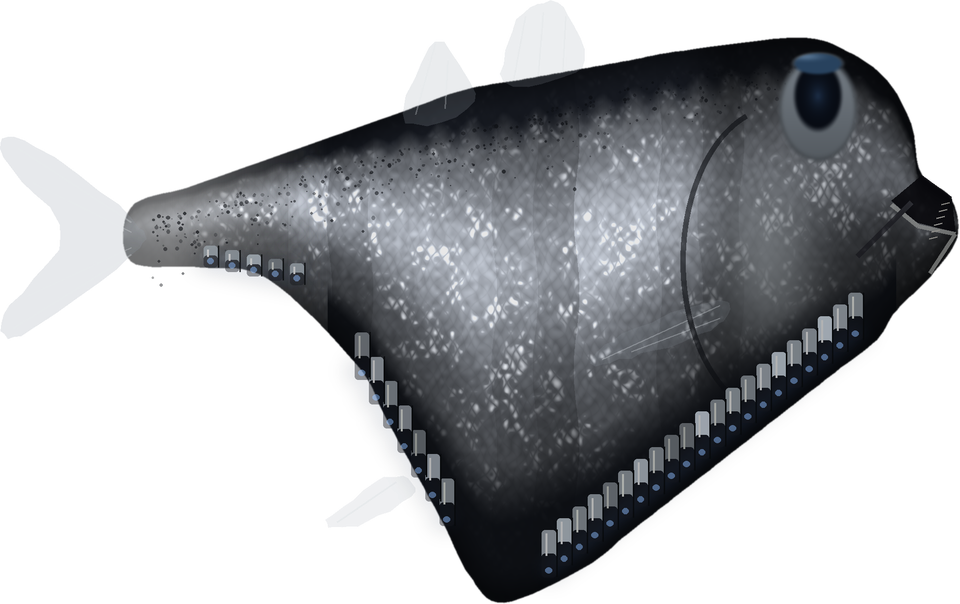
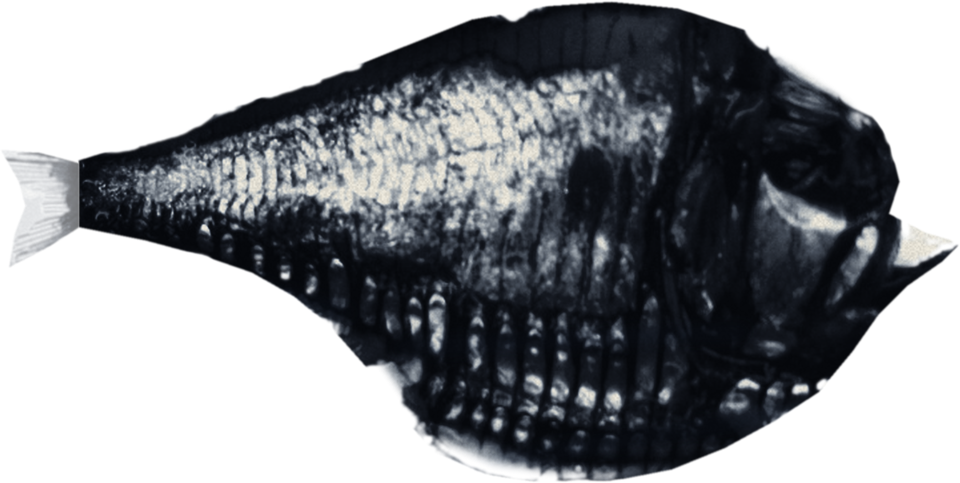
7.3.1: the hatchetfish traced from a photograph of Argyropelecus gigas (NOAA's Fisheries Collection, public domain; kept in tools/ref): its outline traced point by point, its light and dark taken from the photograph and recoloured in the game's palette (near-black shadows to bone, never pure white),
Claude-Session: https://claude.ai/code/session_01KViiRYY5HFnTy3p7jvNZMS

diff --git a/index.html b/index.html
@@ -81,8 +81,8 @@
   <link rel="preconnect" href="https://fonts.googleapis.com">
   <link rel="preconnect" href="https://fonts.gstatic.com" crossorigin>
   <link href="https://fonts.googleapis.com/css2?family=Barlow+Semi+Condensed:wght@400;500;600;700&display=block" rel="stylesheet">
-  <link rel="stylesheet" href="css/style.css?v=7.3.0">
-  <link rel="stylesheet" href="css/olive.css?v=7.3.0">
+  <link rel="stylesheet" href="css/style.css?v=7.3.1">
+  <link rel="stylesheet" href="css/olive.css?v=7.3.1">
   <style>
     /* (4.17.2) the loading screen, poster-style: the painting left alone (only a slow push-in), and over it, at the
        lower left, flat type in the sunset's own orange and a warm off-white: a stamped helmet mark, the title, a
@@ -437,91 +437,91 @@
   <!-- stamp:start (tools/stamp.py) -->
   <script type="importmap">
   { "imports": {
-    "./js/abilities.js": "./js/abilities.js?v=7.3.0",
-    "./js/alarm.js": "./js/alarm.js?v=7.3.0",
-    "./js/aquarium.js": "./js/aquarium.js?v=7.3.0",
-    "./js/aquarium_draw.js": "./js/aquarium_draw.js?v=7.3.0",
-    "./js/arm.js": "./js/arm.js?v=7.3.0",
-    "./js/audio.js": "./js/audio.js?v=7.3.0",
-    "./js/autopilot.js": "./js/autopilot.js?v=7.3.0",
-    "./js/buoy_draw.js": "./js/buoy_draw.js?v=7.3.0",
-    "./js/cabin.js": "./js/cabin.js?v=7.3.0",
-    "./js/capture.js": "./js/capture.js?v=7.3.0",
-    "./js/catalog.js": "./js/catalog.js?v=7.3.0",
-    "./js/chart.js": "./js/chart.js?v=7.3.0",
-    "./js/chest_art.js": "./js/chest_art.js?v=7.3.0",
-    "./js/chests.js": "./js/chests.js?v=7.3.0",
-    "./js/clouds.js": "./js/clouds.js?v=7.3.0",
-    "./js/coin_art.js": "./js/coin_art.js?v=7.3.0",
-    "./js/coins.js": "./js/coins.js?v=7.3.0",
-    "./js/contracts.js": "./js/contracts.js?v=7.3.0",
-    "./js/creatures_draw.js": "./js/creatures_draw.js?v=7.3.0",
-    "./js/dave.js": "./js/dave.js?v=7.3.0",
-    "./js/dave_art.js": "./js/dave_art.js?v=7.3.0",
-    "./js/designs.js": "./js/designs.js?v=7.3.0",
-    "./js/earl_draw.js": "./js/earl_draw.js?v=7.3.0",
-    "./js/economy.js": "./js/economy.js?v=7.3.0",
-    "./js/entity.js": "./js/entity.js?v=7.3.0",
-    "./js/face_draw.js": "./js/face_draw.js?v=7.3.0",
-    "./js/fatfinger.js": "./js/fatfinger.js?v=7.3.0",
-    "./js/fauna.js": "./js/fauna.js?v=7.3.0",
-    "./js/fittings.js": "./js/fittings.js?v=7.3.0",
-    "./js/gallery.js": "./js/gallery.js?v=7.3.0",
-    "./js/gauge_art.js": "./js/gauge_art.js?v=7.3.0",
-    "./js/gear_art.js": "./js/gear_art.js?v=7.3.0",
-    "./js/glyphs.js": "./js/glyphs.js?v=7.3.0",
-    "./js/hud.js": "./js/hud.js?v=7.3.0",
-    "./js/hunters.js": "./js/hunters.js?v=7.3.0",
-    "./js/input.js": "./js/input.js?v=7.3.0",
-    "./js/item_art.js": "./js/item_art.js?v=7.3.0",
-    "./js/item_data.js": "./js/item_data.js?v=7.3.0",
-    "./js/item_words.js": "./js/item_words.js?v=7.3.0",
-    "./js/itemcard.js": "./js/itemcard.js?v=7.3.0",
-    "./js/items.js": "./js/items.js?v=7.3.0",
-    "./js/journal_tank.js": "./js/journal_tank.js?v=7.3.0",
-    "./js/kit_art.js": "./js/kit_art.js?v=7.3.0",
-    "./js/legendfx.js": "./js/legendfx.js?v=7.3.0",
-    "./js/main.js": "./js/main.js?v=7.3.0",
-    "./js/messages.js": "./js/messages.js?v=7.3.0",
-    "./js/monster_draw.js": "./js/monster_draw.js?v=7.3.0",
-    "./js/oldone.js": "./js/oldone.js?v=7.3.0",
-    "./js/pets.js": "./js/pets.js?v=7.3.0",
-    "./js/player.js": "./js/player.js?v=7.3.0",
-    "./js/purchases.js": "./js/purchases.js?v=7.3.0",
-    "./js/quests.js": "./js/quests.js?v=7.3.0",
-    "./js/render.js": "./js/render.js?v=7.3.0",
-    "./js/reveal.js": "./js/reveal.js?v=7.3.0",
-    "./js/scenery_draw.js": "./js/scenery_draw.js?v=7.3.0",
-    "./js/scrolls.js": "./js/scrolls.js?v=7.3.0",
-    "./js/settings.js": "./js/settings.js?v=7.3.0",
-    "./js/showcase.js": "./js/showcase.js?v=7.3.0",
-    "./js/sleeper_draw.js": "./js/sleeper_draw.js?v=7.3.0",
-    "./js/species.js": "./js/species.js?v=7.3.0",
-    "./js/species_looks.js": "./js/species_looks.js?v=7.3.0",
-    "./js/specimens.js": "./js/specimens.js?v=7.3.0",
-    "./js/station_draw.js": "./js/station_draw.js?v=7.3.0",
-    "./js/store.js": "./js/store.js?v=7.3.0",
-    "./js/suit_art.js": "./js/suit_art.js?v=7.3.0",
-    "./js/survey.js": "./js/survey.js?v=7.3.0",
-    "./js/tankroom.js": "./js/tankroom.js?v=7.3.0",
-    "./js/textures.js": "./js/textures.js?v=7.3.0",
-    "./js/title_art.js": "./js/title_art.js?v=7.3.0",
-    "./js/tokens.js": "./js/tokens.js?v=7.3.0",
-    "./js/tools_draw.js": "./js/tools_draw.js?v=7.3.0",
-    "./js/touch.js": "./js/touch.js?v=7.3.0",
-    "./js/trail.js": "./js/trail.js?v=7.3.0",
-    "./js/traps.js": "./js/traps.js?v=7.3.0",
-    "./js/tutspot.js": "./js/tutspot.js?v=7.3.0",
-    "./js/ui.js": "./js/ui.js?v=7.3.0",
-    "./js/undocumented_draw.js": "./js/undocumented_draw.js?v=7.3.0",
-    "./js/units.js": "./js/units.js?v=7.3.0",
-    "./js/util.js": "./js/util.js?v=7.3.0",
-    "./js/variants.js": "./js/variants.js?v=7.3.0",
-    "./js/version.js": "./js/version.js?v=7.3.0",
-    "./js/world.js": "./js/world.js?v=7.3.0",
-    "./data/species_about.js": "./data/species_about.js?v=7.3.0",
-    "./data/species_data.js": "./data/species_data.js?v=7.3.0",
-    "./data/species_more.js": "./data/species_more.js?v=7.3.0"
+    "./js/abilities.js": "./js/abilities.js?v=7.3.1",
+    "./js/alarm.js": "./js/alarm.js?v=7.3.1",
+    "./js/aquarium.js": "./js/aquarium.js?v=7.3.1",
+    "./js/aquarium_draw.js": "./js/aquarium_draw.js?v=7.3.1",
+    "./js/arm.js": "./js/arm.js?v=7.3.1",
+    "./js/audio.js": "./js/audio.js?v=7.3.1",
+    "./js/autopilot.js": "./js/autopilot.js?v=7.3.1",
+    "./js/buoy_draw.js": "./js/buoy_draw.js?v=7.3.1",
+    "./js/cabin.js": "./js/cabin.js?v=7.3.1",
+    "./js/capture.js": "./js/capture.js?v=7.3.1",
+    "./js/catalog.js": "./js/catalog.js?v=7.3.1",
+    "./js/chart.js": "./js/chart.js?v=7.3.1",
+    "./js/chest_art.js": "./js/chest_art.js?v=7.3.1",
+    "./js/chests.js": "./js/chests.js?v=7.3.1",
+    "./js/clouds.js": "./js/clouds.js?v=7.3.1",
+    "./js/coin_art.js": "./js/coin_art.js?v=7.3.1",
+    "./js/coins.js": "./js/coins.js?v=7.3.1",
+    "./js/contracts.js": "./js/contracts.js?v=7.3.1",
+    "./js/creatures_draw.js": "./js/creatures_draw.js?v=7.3.1",
+    "./js/dave.js": "./js/dave.js?v=7.3.1",
+    "./js/dave_art.js": "./js/dave_art.js?v=7.3.1",
+    "./js/designs.js": "./js/designs.js?v=7.3.1",
+    "./js/earl_draw.js": "./js/earl_draw.js?v=7.3.1",
+    "./js/economy.js": "./js/economy.js?v=7.3.1",
+    "./js/entity.js": "./js/entity.js?v=7.3.1",
+    "./js/face_draw.js": "./js/face_draw.js?v=7.3.1",
+    "./js/fatfinger.js": "./js/fatfinger.js?v=7.3.1",
+    "./js/fauna.js": "./js/fauna.js?v=7.3.1",
+    "./js/fittings.js": "./js/fittings.js?v=7.3.1",
+    "./js/gallery.js": "./js/gallery.js?v=7.3.1",
+    "./js/gauge_art.js": "./js/gauge_art.js?v=7.3.1",
+    "./js/gear_art.js": "./js/gear_art.js?v=7.3.1",
+    "./js/glyphs.js": "./js/glyphs.js?v=7.3.1",
+    "./js/hud.js": "./js/hud.js?v=7.3.1",
+    "./js/hunters.js": "./js/hunters.js?v=7.3.1",
+    "./js/input.js": "./js/input.js?v=7.3.1",
+    "./js/item_art.js": "./js/item_art.js?v=7.3.1",
+    "./js/item_data.js": "./js/item_data.js?v=7.3.1",
+    "./js/item_words.js": "./js/item_words.js?v=7.3.1",
+    "./js/itemcard.js": "./js/itemcard.js?v=7.3.1",
+    "./js/items.js": "./js/items.js?v=7.3.1",
+    "./js/journal_tank.js": "./js/journal_tank.js?v=7.3.1",
+    "./js/kit_art.js": "./js/kit_art.js?v=7.3.1",
+    "./js/legendfx.js": "./js/legendfx.js?v=7.3.1",
+    "./js/main.js": "./js/main.js?v=7.3.1",
+    "./js/messages.js": "./js/messages.js?v=7.3.1",
+    "./js/monster_draw.js": "./js/monster_draw.js?v=7.3.1",
+    "./js/oldone.js": "./js/oldone.js?v=7.3.1",
+    "./js/pets.js": "./js/pets.js?v=7.3.1",
+    "./js/player.js": "./js/player.js?v=7.3.1",
+    "./js/purchases.js": "./js/purchases.js?v=7.3.1",
+    "./js/quests.js": "./js/quests.js?v=7.3.1",
+    "./js/render.js": "./js/render.js?v=7.3.1",
+    "./js/reveal.js": "./js/reveal.js?v=7.3.1",
+    "./js/scenery_draw.js": "./js/scenery_draw.js?v=7.3.1",
+    "./js/scrolls.js": "./js/scrolls.js?v=7.3.1",
+    "./js/settings.js": "./js/settings.js?v=7.3.1",
+    "./js/showcase.js": "./js/showcase.js?v=7.3.1",
+    "./js/sleeper_draw.js": "./js/sleeper_draw.js?v=7.3.1",
+    "./js/species.js": "./js/species.js?v=7.3.1",
+    "./js/species_looks.js": "./js/species_looks.js?v=7.3.1",
+    "./js/specimens.js": "./js/specimens.js?v=7.3.1",
+    "./js/station_draw.js": "./js/station_draw.js?v=7.3.1",
+    "./js/store.js": "./js/store.js?v=7.3.1",
+    "./js/suit_art.js": "./js/suit_art.js?v=7.3.1",
+    "./js/survey.js": "./js/survey.js?v=7.3.1",
+    "./js/tankroom.js": "./js/tankroom.js?v=7.3.1",
+    "./js/textures.js": "./js/textures.js?v=7.3.1",
+    "./js/title_art.js": "./js/title_art.js?v=7.3.1",
+    "./js/tokens.js": "./js/tokens.js?v=7.3.1",
+    "./js/tools_draw.js": "./js/tools_draw.js?v=7.3.1",
+    "./js/touch.js": "./js/touch.js?v=7.3.1",
+    "./js/trail.js": "./js/trail.js?v=7.3.1",
+    "./js/traps.js": "./js/traps.js?v=7.3.1",
+    "./js/tutspot.js": "./js/tutspot.js?v=7.3.1",
+    "./js/ui.js": "./js/ui.js?v=7.3.1",
+    "./js/undocumented_draw.js": "./js/undocumented_draw.js?v=7.3.1",
+    "./js/units.js": "./js/units.js?v=7.3.1",
+    "./js/util.js": "./js/util.js?v=7.3.1",
+    "./js/variants.js": "./js/variants.js?v=7.3.1",
+    "./js/version.js": "./js/version.js?v=7.3.1",
+    "./js/world.js": "./js/world.js?v=7.3.1",
+    "./data/species_about.js": "./data/species_about.js?v=7.3.1",
+    "./data/species_data.js": "./data/species_data.js?v=7.3.1",
+    "./data/species_more.js": "./data/species_more.js?v=7.3.1"
   } }
   </script>
   <script type="module">if (!window.__shell) import("./js/main.js");</script>

diff --git a/js/version.js b/js/version.js
@@ -1,3 +1,3 @@
 // The game's version. Bumped with every change: the last number for small fixes and tweaks,
 // the middle one for new features or bigger changes, the first for a major overhaul.
-export const VERSION = '7.3.0';
+export const VERSION = '7.3.1';

diff --git a/tools/hatchet_kit.py b/tools/hatchet_kit.py
@@ -6,7 +6,7 @@
 #   assets/loading/wave.png        the bar, empty: a band of deep water, its top a row of small waves catching faint light
 #   assets/loading/wave_fill.png   the same band full of pale, sunlit water, a lighter crest along each wave
 # Run: python3 tools/hatchet_kit.py
-import math
+import math, os
 import numpy as np
 from PIL import Image, ImageDraw, ImageFilter
 
@@ -318,6 +318,60 @@ def fish2(W=2400, H=1720, out_w=960):
     return im.resize((out_w, int(out_w * im.height / im.width)), Image.LANCZOS)
 
 
+def fish3(ref=os.path.join(os.path.dirname(__file__), 'ref', 'argyropelecus_gigas_noaa_pd.jpg'), out_w=960):
+    # (7.3.0, owner: "trace the image itself") traced from a photograph of Argyropelecus gigas (NOAA's Fisheries
+    # Collection, public domain; Wikimedia Commons, File:Argyropelecus_gigas.jpg): its outline traced point by point by
+    # hand (turned to face right), its light and dark taken from the photograph itself and recoloured in the game's own
+    # palette (cold, near-black shadows up to bone, never pure white), with a faint paint grain; a soft blue glow under
+    # the rows of light organs, as on a living fish
+    import os
+    src = Image.open(ref).convert('RGB')
+    src = src.crop((0, 40, 820, 460)).transpose(Image.FLIP_LEFT_RIGHT)  # the same frame the outline was traced on
+    K2 = 2.4; W, H = int(820 * K2), int(420 * K2)
+    body = [(100, 156), (150, 140), (200, 122), (250, 104), (300, 88), (345, 70), (395, 50), (450, 40), (500, 37), (550, 42),
+            (600, 58), (645, 78), (685, 105), (708, 140), (716, 172), (708, 196), (735, 210), (762, 218), (748, 232), (722, 250),
+            (700, 272), (680, 300), (655, 330), (622, 352), (585, 372), (545, 388), (500, 397), (450, 398), (405, 392), (368, 376),
+            (340, 345), (315, 310), (290, 282), (262, 258), (230, 240), (195, 228), (150, 216), (100, 206)]
+    tail = [(100, 158), (70, 150), (42, 148), (55, 172), (60, 190), (52, 212), (48, 236), (78, 220), (100, 206)]
+    S2 = lambda pts: [(x * K2, y * K2) for x, y in pts]
+    m = Image.new('L', (W, H), 0); dm = ImageDraw.Draw(m); dm.polygon(S2(body), fill=255)
+    mt = Image.new('L', (W, H), 0); ImageDraw.Draw(mt).polygon(S2(tail), fill=255)
+    m = m.filter(ImageFilter.GaussianBlur(1.4)); mt = mt.filter(ImageFilter.GaussianBlur(1.4))
+    lum = np.asarray(src.convert('L').resize((W, H), Image.BICUBIC).filter(ImageFilter.GaussianBlur(0.8)), np.float32)
+    # the light map stretched a little so the shadows are deep and the silver bright, as the photograph is
+    lo, hi = np.percentile(lum[np.asarray(m) > 128], [3, 99]); t = np.clip((lum - lo) / max(1, hi - lo), 0, 1)
+    stops = [(0.0, (6, 8, 12)), (0.25, (22, 26, 34)), (0.5, (70, 78, 90)), (0.75, (150, 158, 166)), (0.92, (206, 208, 204)), (1.0, (228, 224, 212))]
+    col = np.zeros((H, W, 3), np.float32)
+    for (a0, c0), (a1, c1) in zip(stops, stops[1:]):
+        k = np.clip((t - a0) / (a1 - a0), 0, 1)[..., None]; sel = ((t >= a0) & (t <= a1))[..., None]
+        col = np.where(sel, np.array(c0) * (1 - k) + np.array(c1) * k, col)
+    rng = np.random.default_rng(9)
+    grain = np.asarray(Image.fromarray((rng.random((H // 3, W // 3)) * 255).astype(np.uint8)).resize((W, H), Image.BICUBIC), np.float32) / 255
+    col *= (0.95 + 0.1 * grain)[..., None]
+    # the tray it lay on shows through where the traced line runs a hair outside the fish: warm and pale, where the fish's
+    # silver is neutral - those pixels are left out, so the edge follows the fish exactly
+    rgb = np.asarray(src.resize((W, H), Image.BICUBIC), np.float32)
+    tray = np.clip(((rgb[..., 0] - rgb[..., 2]) - 10) / 12, 0, 1) * np.clip((lum - 120) / 40, 0, 1)
+    tray = np.asarray(Image.fromarray((tray * 255).astype(np.uint8)).filter(ImageFilter.MaxFilter(5)).filter(ImageFilter.GaussianBlur(2)), np.float32) / 255
+    inner = np.asarray(m.filter(ImageFilter.MinFilter(41)).filter(ImageFilter.GaussianBlur(6)), np.float32) / 255  # well inside: the flank reflects the tray too, and stays
+    tray *= (1 - inner)
+    A = np.asarray(m, np.float32) / 255 * (1 - tray); At = np.asarray(mt, np.float32) / 255 * 0.55 * (1 - tray * 0.6)
+    alpha = np.maximum(A, At)
+    out = np.zeros((H, W, 4), np.uint8); out[..., :3] = np.clip(col, 0, 255); out[..., 3] = (alpha * 255).astype(np.uint8)
+    im = Image.fromarray(out, 'RGBA')
+    # the living fish's light: a soft blue glow under its rows of organs (along the keel, under the flank, the stalk)
+    glow = Image.new('RGBA', (W, H), (0, 0, 0, 0)); gd = ImageDraw.Draw(glow)
+    rows = [((372, 384), (650, 338)), ((340, 292), (600, 280)), ((150, 224), (300, 266))]
+    for (a0, b0) in rows:
+        for i in range(24):
+            q = i / 23; x = a0[0] + (b0[0] - a0[0]) * q; y = a0[1] + (b0[1] - a0[1]) * q
+            gd.ellipse([(x - 9) * K2, (y - 2) * K2, (x + 9) * K2, (y + 12) * K2], fill=(70, 110, 180, 26))
+    im = Image.alpha_composite(im, glow.filter(ImageFilter.GaussianBlur(8 * K2)))
+    a2 = np.asarray(im)[..., 3]; im.putalpha(Image.fromarray(np.minimum(a2, (alpha * 255).astype(np.uint8))))
+    bb = im.getbbox(); im = im.crop(bb)
+    return im.resize((out_w, int(out_w * im.height / im.width)), Image.LANCZOS)
+
+
 def wave(full):
     # (7.1.7) The bar is a band of sea of even depth, its bottom straight, its top a row of small rolling waves; the ends
     # rounded off. No taper: a tapering ripple with the fish at its head read as something else entirely.
@@ -347,7 +401,7 @@ def wave(full):
 
 
 if __name__ == '__main__':
-    fish2().save(OUT + 'hatchetfish.png', optimize=True)  # (7.3.0) the repaint after the photograph; fish() is the 7.2.15 painting
+    fish3().save(OUT + 'hatchetfish.png', optimize=True)  # (7.3.0, owner) traced from the photograph (tools/ref, public domain)
     wave(False).save(OUT + 'wave.png', optimize=True)
     wave(True).save(OUT + 'wave_fill.png', optimize=True)
     print('painted')

diff --git a/README.md b/README.md
@@ -1,6 +1,6 @@
 # Hatchetfish — Deep Sea Survival
 
-Version 7.3.0 (shown on the home screen and in the pause menu; see `js/version.js`).
+Version 7.3.1 (shown on the home screen and in the pause menu; see `js/version.js`).
 
 A 2D ocean diving and survival horror game that runs in the browser (desktop).
 
